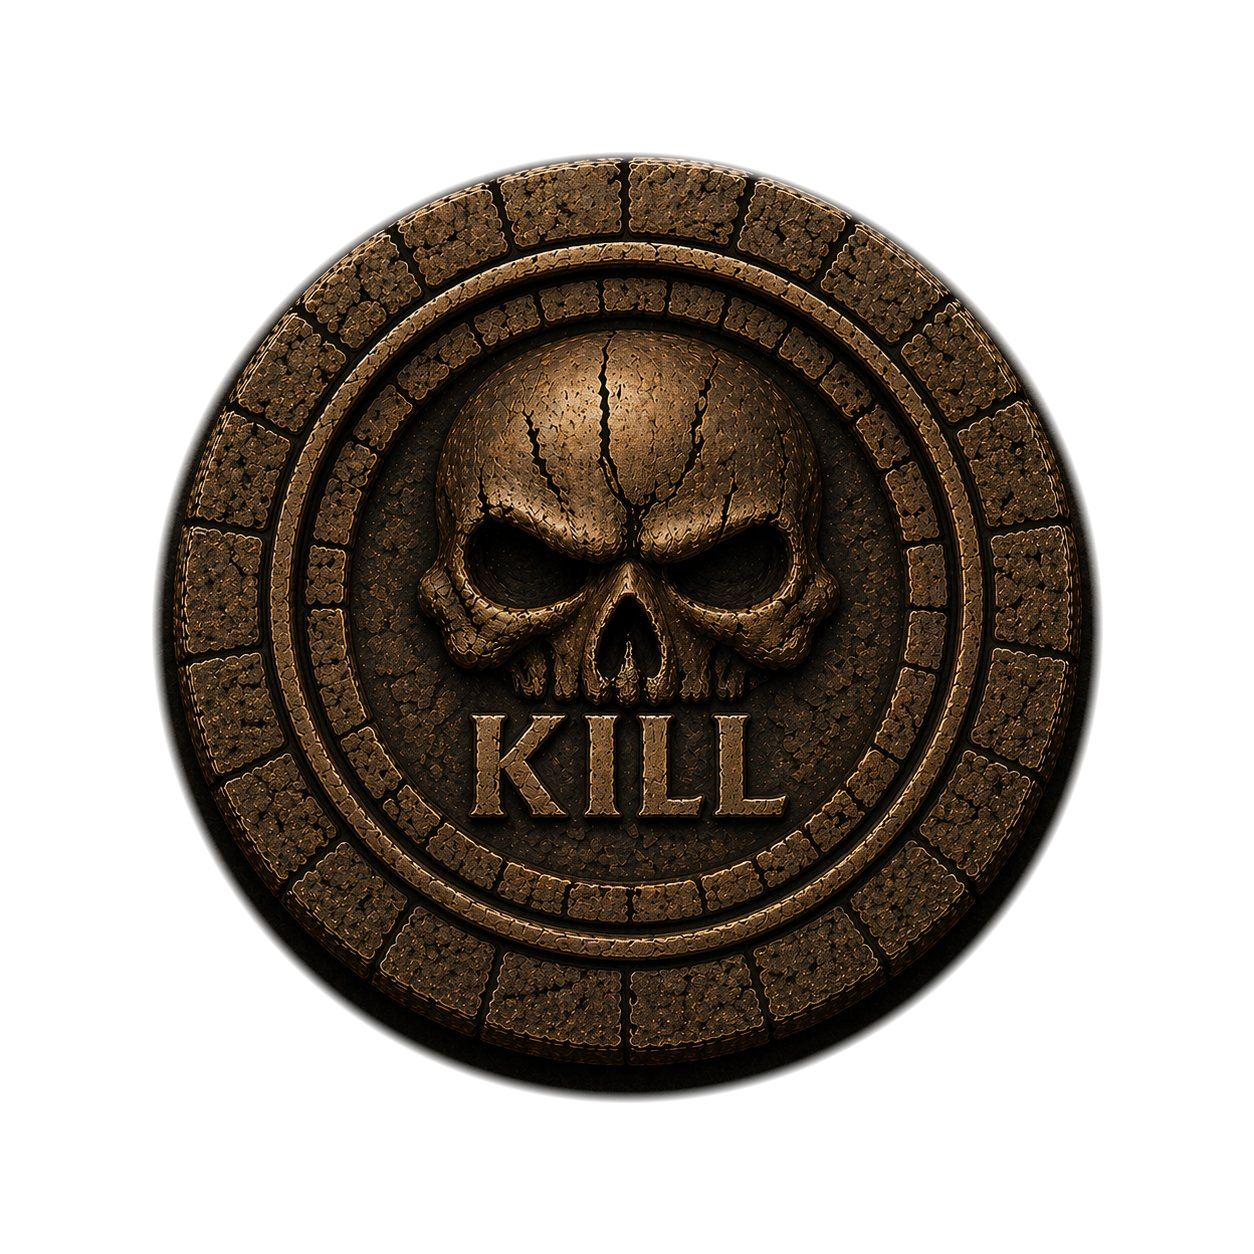
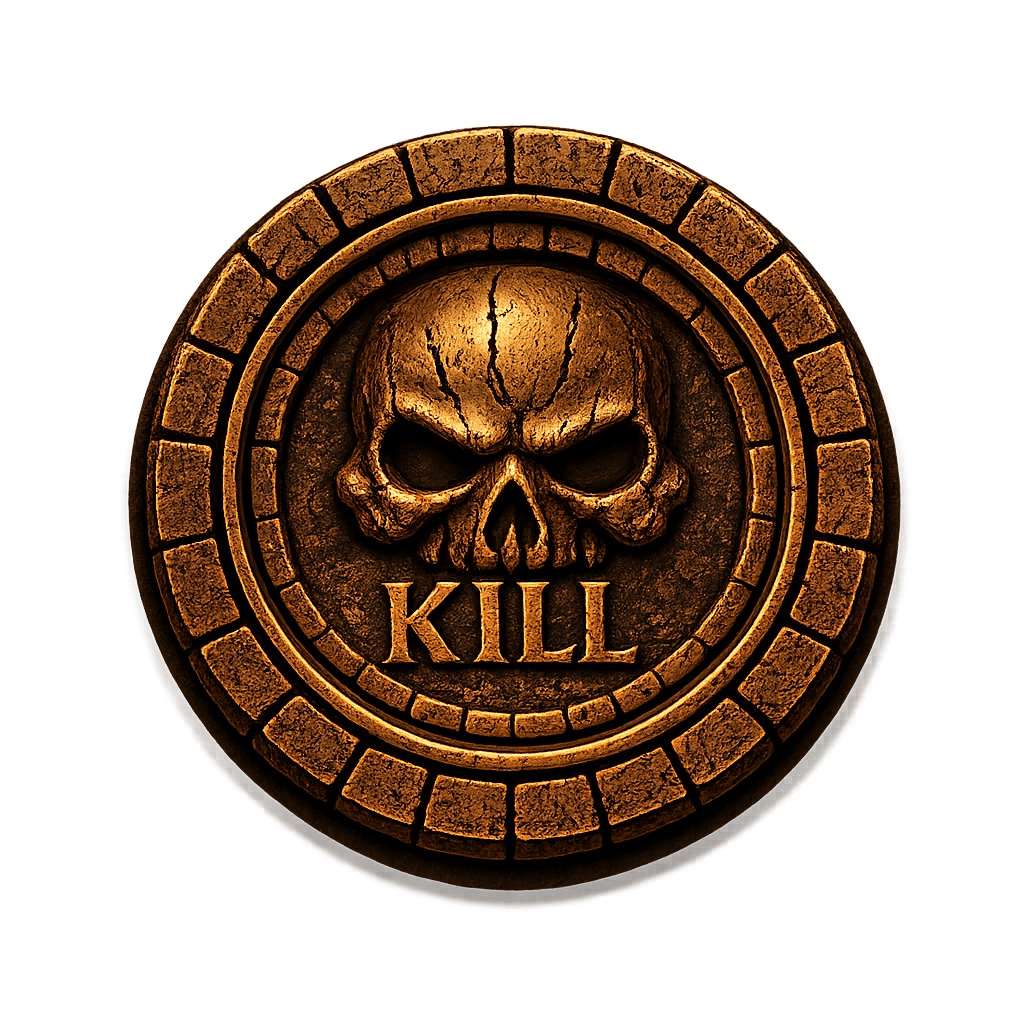
report body button added

diff --git a/lib/src/imposter_ability.c b/lib/src/imposter_ability.c
@@ -3,17 +3,17 @@
 #include "game_map.h"
 #include "network_data.h"
 #include "game.h"
+#include "player_movement.h"
 
-void render_imposter_ability(SDL_Renderer *renderer, gameState state, SDL_Texture *kill_button_active, SDL_Texture *kill_button_deactive,bool kill_cooldown, int killer_id)
+void render_imposter_ability(SDL_Renderer *renderer, gameState state, SDL_Texture *kill_button_active, SDL_Texture *kill_button_deactive, bool kill_cooldown, int killer_id)
 {
     SDL_Rect kill_button = {1050, 520, 200, 200};
 
-    if (handle_kill_request(&state, killer_id) != -1 && !kill_cooldown) 
-    
-        SDL_RenderCopy(renderer,kill_button_active, NULL, &kill_button);
-    else 
-        SDL_RenderCopy(renderer,kill_button_deactive,NULL, &kill_button);
+    if (handle_kill_request(&state, killer_id) != -1 && !kill_cooldown)
 
+        SDL_RenderCopy(renderer, kill_button_active, NULL, &kill_button);
+    else
+        SDL_RenderCopy(renderer, kill_button_deactive, NULL, &kill_button);
 
     // SDL_SetTextureColorMod(kill_button_active, 255, 255, 255);
     // SDL_SetTextureAlphaMod(kill_button_active, 255);
@@ -31,7 +31,6 @@ void render_imposter_ability(SDL_Renderer *renderer, gameState state, SDL_Textur
     // {
     //     SDL_SetTextureAlphaMod(kill_button_active, 150);
     // }
-
 }
 
 bool is_hovering(SDL_Renderer *renderer, SDL_Rect rect)
@@ -76,7 +75,7 @@ int handle_kill_request(gameState *state, int killer_id)
 
         if (state->players[i].isAlive && state->players[i].active)
         {
-            float distance = find_kill_target(imposter,state->players[i]);
+            float distance = find_kill_target(imposter, state->players[i]);
             if (distance > 0 && distance < best_distance)
             {
                 target_id = i;
@@ -163,6 +162,46 @@ void update_kill_animation(KillAnimation *anim, float dt)
             anim->animation_timer = 0.0f;
         }
     }
+}
+
+int target_report_body(KillAnimation bodies[MAX_PLAYERS], Player player)
+{
+    int target = -1;
+    float shortest_distance = KILL_RADIUS * KILL_RADIUS;
+
+    float player_center_x = player.Hitbox.x + player.Hitbox.w / 2.0f;
+    float player_center_y = player.Hitbox.y + player.Hitbox.h / 2.0f;
+
+    for (int i = 0; i < MAX_PLAYERS; i++)
+    {
+        if (!bodies[i].active)
+            continue;
+
+        float dx = player_center_x - bodies[i].x;
+        float dy = player_center_y - bodies[i].y;
+        float dist_sq = dx * dx + dy * dy;
+        if (dist_sq < shortest_distance)
+        {
+            target = i;
+            shortest_distance = dist_sq;
+        }
+    }
+    return target;
+}
+
+void render_player_ability(SDL_Renderer *renderer, Player player, GameAssets assets, KillAnimation bodies[MAX_PLAYERS])
+{
+    SDL_Rect picture_size = {940, 440, 150, 150};
+    SDL_Texture *report_body = assets.report_button_deactive;
+    if (target_report_body(bodies, player) != -1)
+    {
+        picture_size.x -= 15;
+        picture_size.y -= 15;
+        picture_size.w += 30;
+        picture_size.h += 30;
+        report_body = assets.report_button_active;
+    }
+    SDL_RenderCopy(renderer, report_body, NULL, &picture_size);
 }
 
 void render_kill_animation(SDL_Renderer *renderer, KillAnimation *anim, GameAssets assets, Camera *cam)

diff --git a/lib/include/game_map.h b/lib/include/game_map.h
@@ -23,9 +23,13 @@ typedef struct
     SDL_Texture *killer_img;
     SDL_Texture *innocent_img;
     SDL_Texture *role_art_img;
+
     SDL_Texture *kill_button_active;
     SDL_Texture *kill_button_deactive;
     
+    SDL_Texture *report_button_deactive;
+    SDL_Texture *report_button_active;
+
     SDL_Texture *emergency_button_view;
     SDL_Texture *emergency_meeting_info;
     SDL_Texture *dead_body_reported_info;

diff --git a/lib/include/imposter_ability.h b/lib/include/imposter_ability.h
@@ -2,6 +2,7 @@
 #define IMPOSTER_ABILITY
 #include "game_map.h"
 #include "game.h"
+#include "player_movement.h"
 #define COOLDOWN 10000
 #define KILL_RADIUS 100
 
@@ -26,6 +27,9 @@ void get_forward_vector(Direction direction, float *fx, float *fy);
 void start_kill_animation(KillAnimation *anim, int killer_id, int victim_id, float x, float y);
 void update_kill_animation(KillAnimation *anim, float dt);
 void render_kill_animation(SDL_Renderer *renderer, KillAnimation *anim, GameAssets assets, Camera *cam);
+
+int target_report_body(KillAnimation bodies[MAX_PLAYERS], Player player);
+void render_player_ability(SDL_Renderer *renderer, Player player, GameAssets assets, KillAnimation bodies[MAX_PLAYERS]);
 
 
 #endif

diff --git a/lib/src/game_map.c b/lib/src/game_map.c
@@ -36,6 +36,9 @@ GameAssets load_assets(SDL_Renderer *renderer)
     asset.kill_button_active = loading_img(renderer, "assets/images/kill_button_active.png");
     asset.kill_button_deactive = loading_img(renderer, "assets/images/kill_button_deactive.png");
 
+    asset.report_button_deactive = loading_img(renderer, "assets/images/report_button_deactive.png");
+    asset.report_button_active = loading_img(renderer, "assets/images/report_button_active.png");
+
     asset.emergency_button_view = loading_img(renderer, "assets/images/emergency_button_view.png");
     asset.dead_body_reported_info = loading_img(renderer, "assets/images/body_reported.png");
     asset.emergency_meeting_info = loading_img(renderer, "assets/images/Emergency_meeting_info.png");
@@ -58,6 +61,7 @@ GameAssets load_assets(SDL_Renderer *renderer)
     }
     return asset;   
 }
+
 void camera_follow(Camera *cam, float player_x, float player_y, int player_w, int player_h)
 {
     cam->x = player_x + player_w / 2 - cam->screen_w / 2;

diff --git a/lib/include/player_movement.h b/lib/include/player_movement.h
@@ -31,4 +31,5 @@ void update_map(SDL_Renderer *renderer, SDL_Texture *Game_map, Player *player, S
 void apply_movement(float *x, float *y, clientInput input, float dt);
 void compare_server_position(gameState state, Player *player,int local_id);
 
+
 #endif

diff --git a/lib/src/game.c b/lib/src/game.c
@@ -390,6 +390,7 @@ void runGame(Client *client, waitForPlayers *lobby, gameState *state)
         {
             render_kill_animation(renderer, &bodies[i], assets, &cam);
         }
+        render_player_ability(renderer, *player, assets, bodies);
         if (local_player_is_impostor)
         {
             // Sync kill cooldown from server state